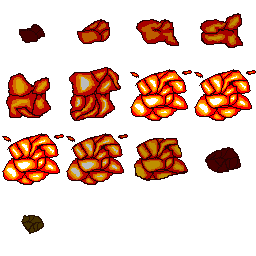
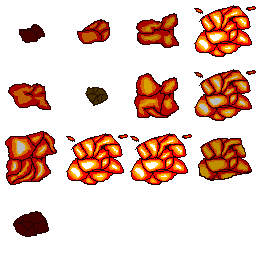
Atlas sprite

diff --git a/src/scenes/Play.js b/src/scenes/Play.js
@@ -23,7 +23,7 @@ export class Play extends Phaser.Scene {
         this.load.spritesheet("carSheet", "./assets/images/carSpriteSheet.png", { frameWidth: 100, frameHeight: 146, frameMax: 3});
         this.load.spritesheet("mustangishSheet", "./assets/images/mustang-ishSheet.png", {frameWidth: 26, frameHeight: 51, frameMax: 4});
         this.load.spritesheet("padSheet", "./assets/images/PadSpritesheet.png", {frameWidth: 32, frameHeight: 32, frameMax: 5});
-        this.load.spritesheet("explosion", "./assets/images/explosion.png", {frameWidth: 64, frameWidth: 64, frameMax: 13});
+        this.load.atlas("explosion", "./assets/images/explosion.png", "./assets/images/explosion_atlas.json");
         
         var graphics = this.make.graphics();
         graphics.fillStyle(0xffffff);
@@ -64,6 +64,9 @@ export class Play extends Phaser.Scene {
         this.enemies = this.add.group();
 
         this.createPlayer();
+
+        this.anims.create({key: "explode", frames: this.anims.generateFrameNames("explosion", {prefix: "explosion", start: 1, end: 13}), frameRate: 15});
+        this.anims.create({key: "go", frames: this.anims.generateFrameNumbers("padSheet"), frameRate: 15})
 
         this.psd = true;
 
@@ -358,13 +361,12 @@ export class Play extends Phaser.Scene {
             enemy.e.setScale(2 * game.config.width/800);
             enemy.e.angle = Math.floor(Math.random() * 360);
             enemy.rotate = (Math.random() * 2) - 1;
-            enemy.e.anim = enemy.e.anims.create({key: 'explode', frames: this.anims.generateFrameNumbers("explosion")});
             enemy.e.play("explode");
             var sound = soundManager.play('crash');
             sound.playbackRate.value = Math.random() * 2;
             var dec = false;
             var int = setInterval(function(){
-                if(enemy.e.anim.frame >= 7){
+                if(enemy.e.currentFrame >= 7){
                     dec = true;
                 }
                 if(!dec){
@@ -376,11 +378,11 @@ export class Play extends Phaser.Scene {
                 enemy.e.angle += enemy.rotate;
                 
             }, 1);
-            enemy.e.on("complete", function(){
+            enemy.e.on("animationcomplete", function(){
                 clearInterval(int);
                 enemy.e.destroy();
             }, this);
-            enemy.e.anims.play('explode', 12, false);
+            enemy.e.play('explode');
             enemy.e.car = enemy;
             if(!enemy.playerFire){
                 enemy.sprite.setFrame(2);
@@ -456,7 +458,6 @@ export class Play extends Phaser.Scene {
             var pad = this.physics.add.sprite(randX, -500, 'padSheet');
             padShadow.tint = 0x000000;
             padShadow.alpha = 0.8;
-            pad.anims.create({key: "go", frames: this.anims.generateFrameNumbers("padSheet"), frameRate: 15})
             pad.play({key: 'go', frameRate: 12, repeat: -1});
             pad.setScale(0.00125 * game.config.width);
             padShadow.setScale(game.config.width/800);
@@ -535,7 +536,6 @@ export class Play extends Phaser.Scene {
                     var exp = this.add.sprite(-100, -100, 'explosion'); //Generate explosion
                     exp.setOrigin(0.5);
                     exp.setScale(10);
-                    exp.anim = exp.anims.create({key: "explode", frames: this.anims.generateFrameNumbers("explosion"), frameRate: 15});
                     exp.play('explode');
                     var dec = false;
                     var int = setInterval(function(){

diff --git a/src/main.js b/src/main.js
@@ -3,6 +3,14 @@ import * as Scenes from "./scenes/Scenes.js";
 Not Spy Hunter
 Started: 10:54 at 5/8
 
+Todo:
+- Texture Atlas
+- In-Game Instructions
+- Looping Background Music
+- SFX
+- In-game credits
+- Creative Tilt
+
 Hey, wouldn't you know, I made an endless runner in Phaser CE about 4 years ago. I'm gonna upgrade it to Phaser 3 and make a bunch of improvements, but all of the art is mine! Time to add some SFX and Music that doesn't suck though. 
 
 Phaser 3 Weapon Plugin: https://github.com/16patsle/phaser3-weapon-plugin
